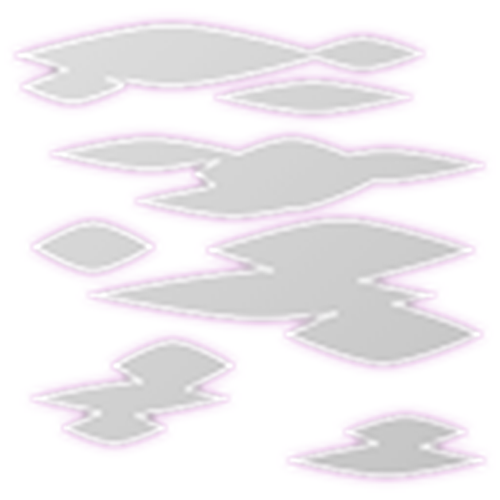
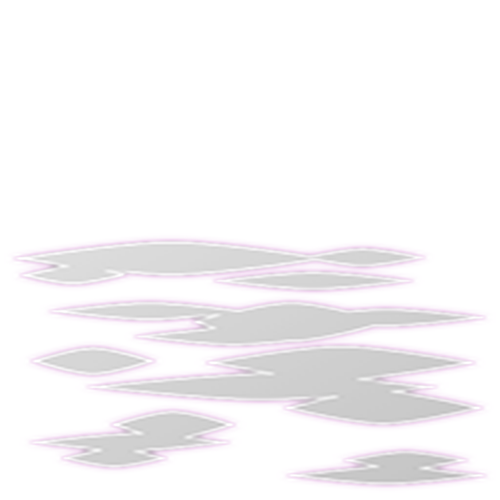
updated haze graphics for clock

diff --git a/widgets/clock.php b/widgets/clock.php
@@ -1,6 +1,7 @@
 <?php 
 require_once("../includes/main.php");
 if(HasPlugin("NullWeather")) $weather = WeatherLogs::CurrentWeather();
+if(HasPlugin("NullSensors")) $indoors = AverageIndoorTemperature();
 ?>
 <div id="clock" time="<?=date("g:i");?>" time_of_day="<?=TimeOfDay::TimeOfDayString()?>" day="<?=date("D");?>" month="<?=date("M");?>" season="<?=TimeOfDay::Season()?>" clouds="<?=Settings::LoadSettingsVar("clouds","0");?>" moon_visible="<?=TimeOfDay::MoonOutBoolAsInt();?>" NullWeather="<?=HasPluginBoolAsString("NullWeather")?>" NullSensors="<?=HasPluginBoolAsString("NullSensors")?>" class="clock">
     <div class="sky" moon_phase="<?=TimeOfDay::MoonPhaseString();?>" afternoon="<?=TimeOfDay::AfternoonBoolAsString();?>">
@@ -15,64 +16,12 @@ if(HasPlugin("NullWeather")) $weather = WeatherLogs::CurrentWeather();
     <div class="slideshow" var="date"><?=date("M j, Y");?></div>
     <div class="slideshow" var="sunrise" unit=""><?=Times24ToTime12Short(Settings::LoadSettingsVar("sunrise_txt","6:00"))?></div>
     <div class="slideshow" var="sunset" unit=""><?=Times24ToTime12Short(Settings::LoadSettingsVar("sunset_txt","6:00"))?></div>
-    <?php if(HasPlugin("NullWeather")) { ?><div class="temp extra NullWeather" var="feels_like" unit="fahrenheit"><?=$weather['feels_like'];?></div>
-    <div class="humidity extra NullWeather" var="humidity" unit="percent"><?=$weather['humidity'];?></div>
-    <div class="wind extra NullWeather" var="wind_speed" unit="MetersPerSeconds"><?=$weather['wind_speed'];?></div>
+    <?php if(HasPlugin("NullWeather")) { ?><div class="temp extra NullWeather" var="feels_like" unit="fahrenheit" style="color:<?=interpolateColor(Colors::GetColor("temp_".floor($weather['feels_like']/10)),Colors::GetColor("temp_".ceil($weather['feels_like']/10)),($weather['feels_like']/10)-floor($weather['feels_like']/10));?>"><?=$weather['feels_like'];?></div>
+    <div class="humidity extra NullWeather" var="humidity" unit="percent" style="color:<?=interpolateColor(Colors::GetColor("hum_0"),Colors::GetColor("hum_1"),$weather['humidity']/100);?>"><?=$weather['humidity'];?></div>
+    <div class="wind extra NullWeather" var="wind_speed" unit="MetersPerSeconds" style="color:<?=interpolateColor(Colors::GetColor("wind_0"),Colors::GetColor("wind_1"),$weather['wind_speed']/100);?>"><?=$weather['wind_speed'];?></div>
     <div class="description extra NullWeather" var="description"><?=$weather['description'];?></div>
-    <div class="temp_chart outdoors simple NullWeather">
-        <div class="time_bar"></div>
-        <div class="hour" hour="00"></div>
-        <div class="hour" hour="01"></div>
-        <div class="hour" hour="02"></div>
-        <div class="hour" hour="03"></div>
-        <div class="hour" hour="04"></div>
-        <div class="hour" hour="05"></div>
-        <div class="hour" hour="06"></div>
-        <div class="hour" hour="07"></div>
-        <div class="hour" hour="08"></div>
-        <div class="hour" hour="09"></div>
-        <div class="hour" hour="10"></div>
-        <div class="hour" hour="11"></div>
-        <div class="hour" hour="12"></div>
-        <div class="hour" hour="13"></div>
-        <div class="hour" hour="14"></div>
-        <div class="hour" hour="15"></div>
-        <div class="hour" hour="16"></div>
-        <div class="hour" hour="17"></div>
-        <div class="hour" hour="18"></div>
-        <div class="hour" hour="19"></div>
-        <div class="hour" hour="20"></div>
-        <div class="hour" hour="21"></div>
-        <div class="hour" hour="22"></div>
-        <div class="hour" hour="23"></div>
-    </div><?php } ?>
-    <?php if(HasPlugin("NullSensors")) { ?><div class="temp_chart indoors simple NullSensors" collection="indoor_temperature" room_id="all">
-        <div class="time_bar"></div>
-        <div class="hour" hour="00"></div>
-        <div class="hour" hour="01"></div>
-        <div class="hour" hour="02"></div>
-        <div class="hour" hour="03"></div>
-        <div class="hour" hour="04"></div>
-        <div class="hour" hour="05"></div>
-        <div class="hour" hour="06"></div>
-        <div class="hour" hour="07"></div>
-        <div class="hour" hour="08"></div>
-        <div class="hour" hour="09"></div>
-        <div class="hour" hour="10"></div>
-        <div class="hour" hour="11"></div>
-        <div class="hour" hour="12"></div>
-        <div class="hour" hour="13"></div>
-        <div class="hour" hour="14"></div>
-        <div class="hour" hour="15"></div>
-        <div class="hour" hour="16"></div>
-        <div class="hour" hour="17"></div>
-        <div class="hour" hour="18"></div>
-        <div class="hour" hour="19"></div>
-        <div class="hour" hour="20"></div>
-        <div class="hour" hour="21"></div>
-        <div class="hour" hour="22"></div>
-        <div class="hour" hour="23"></div>
-    </div>
-    <div class="temp indoors NullSensors" var="temp" unit="fahrenheit"></div>
-    <div class="humidity indoors NullSensors" var="hum" unit="percent"></div><?php } ?>
+    <?php echo file_get_contents("http://localhost/plugins/NullWeather/widgets/outdoor_temp_chart.php"); } ?>
+    <?php if(HasPlugin("NullSensors")) { echo file_get_contents("http://localhost/plugins/NullSensors/widgets/indoor_temperature_chart.php"); ?>
+    <div class="temp indoors NullSensors" var="temp" unit="fahrenheit" style="color:<?=interpolateColor(Colors::GetColor("temp_".floor($indoors['temp']/10)),Colors::GetColor("temp_".ceil($indoors['temp']/10)),($indoors['temp']/10)-floor($indoors['temp']/10));?>"><?=round($indoors['temp']);?></div>
+    <div class="humidity indoors NullSensors" var="hum" unit="percent" style="color:<?=interpolateColor(Colors::GetColor("hum_0"),Colors::GetColor("hum_1"),$indoors['hum']/100);?>"><?=round($indoors['hum']);?></div><?php } ?>
 </div>
